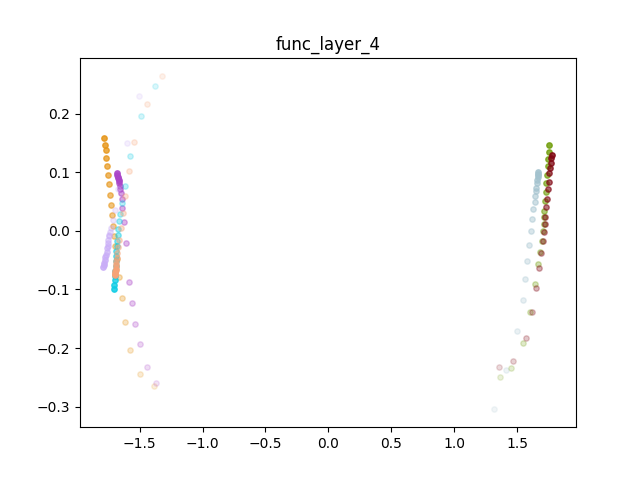
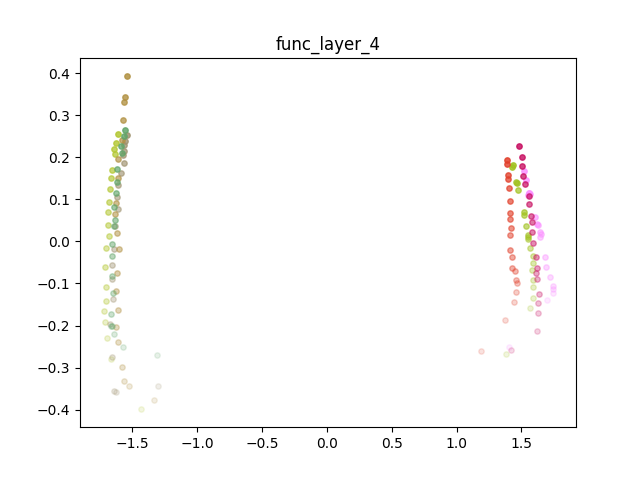
update readme for hw1_2, revised mnist_dnn.py

diff --git a/hw1/hw1_2/README.md b/hw1/hw1_2/README.md
@@ -37,6 +37,13 @@ Simply execute PCA.py and specify the model (mnist/func) as well as the layers y
 ```
 python3 PCA.py mnist layer_1
 ```
+
+To reproduce all the figure shown in the presentation, simply run PCA.sh.
+
+```
+./PCA.sh
+```
+
 The result will be saved in directory ./hw1_2/Opt_Vis. 
 
 ## What happens when gradient is almost zero? (Simulate function sinc(3x))
